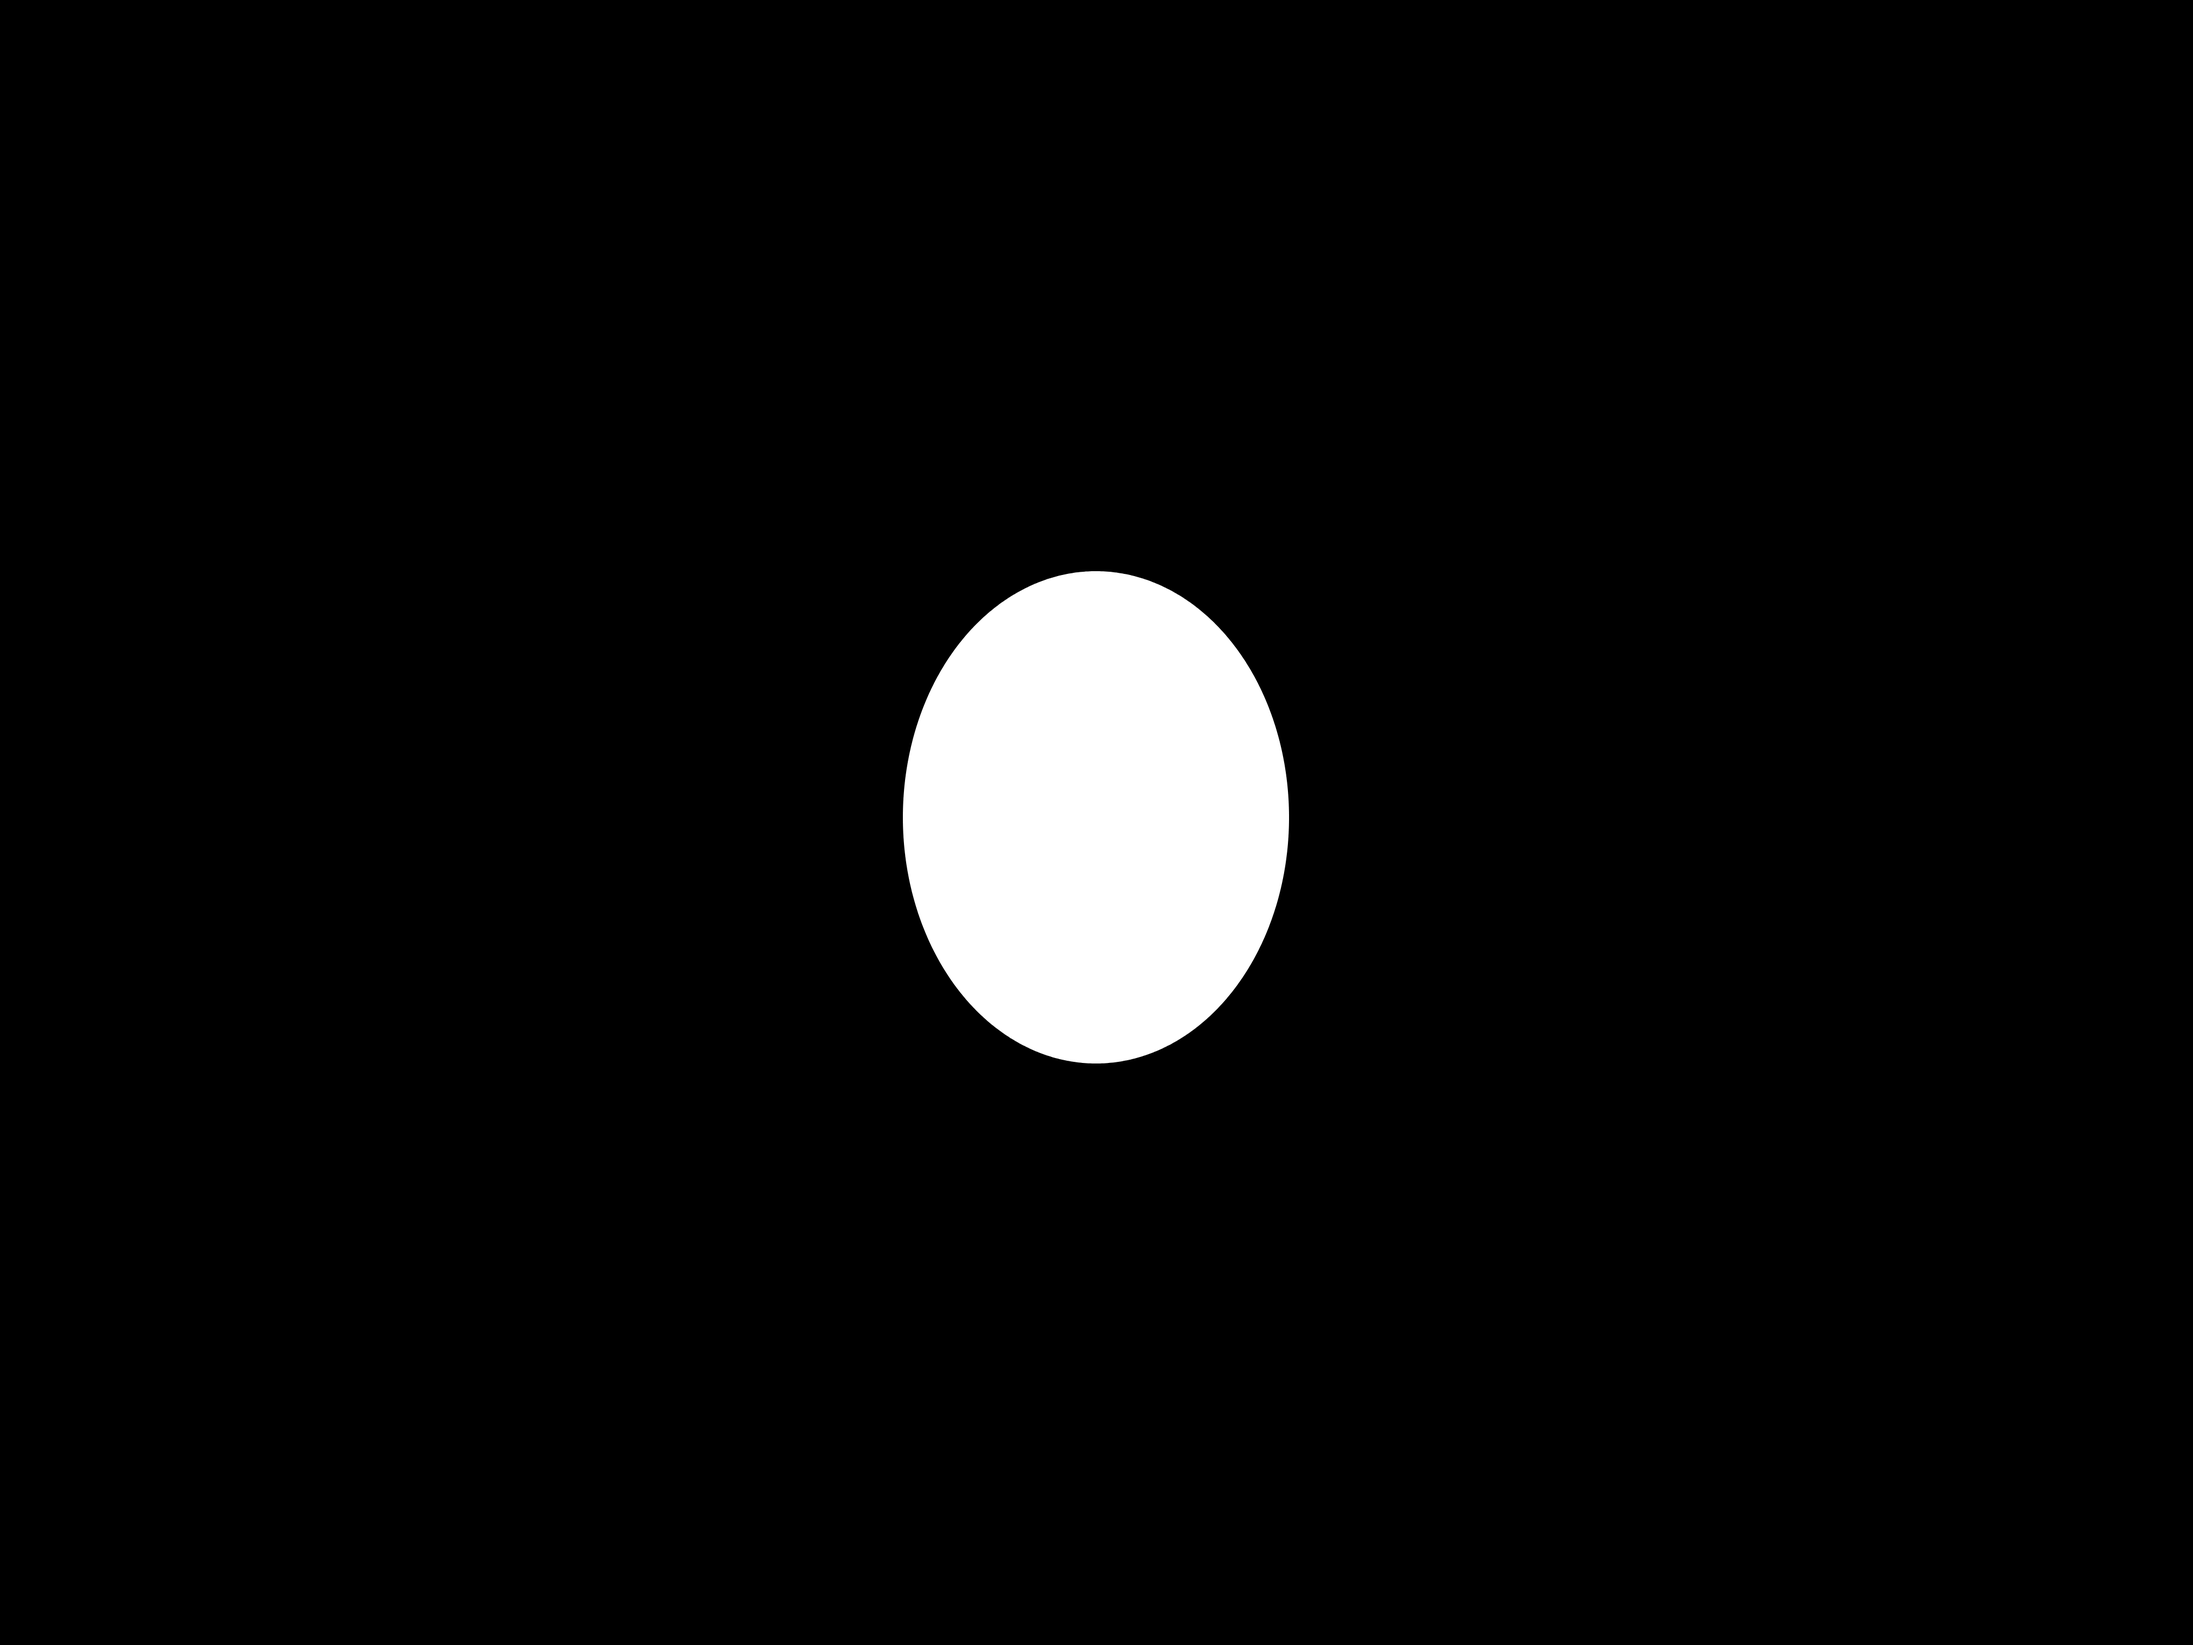
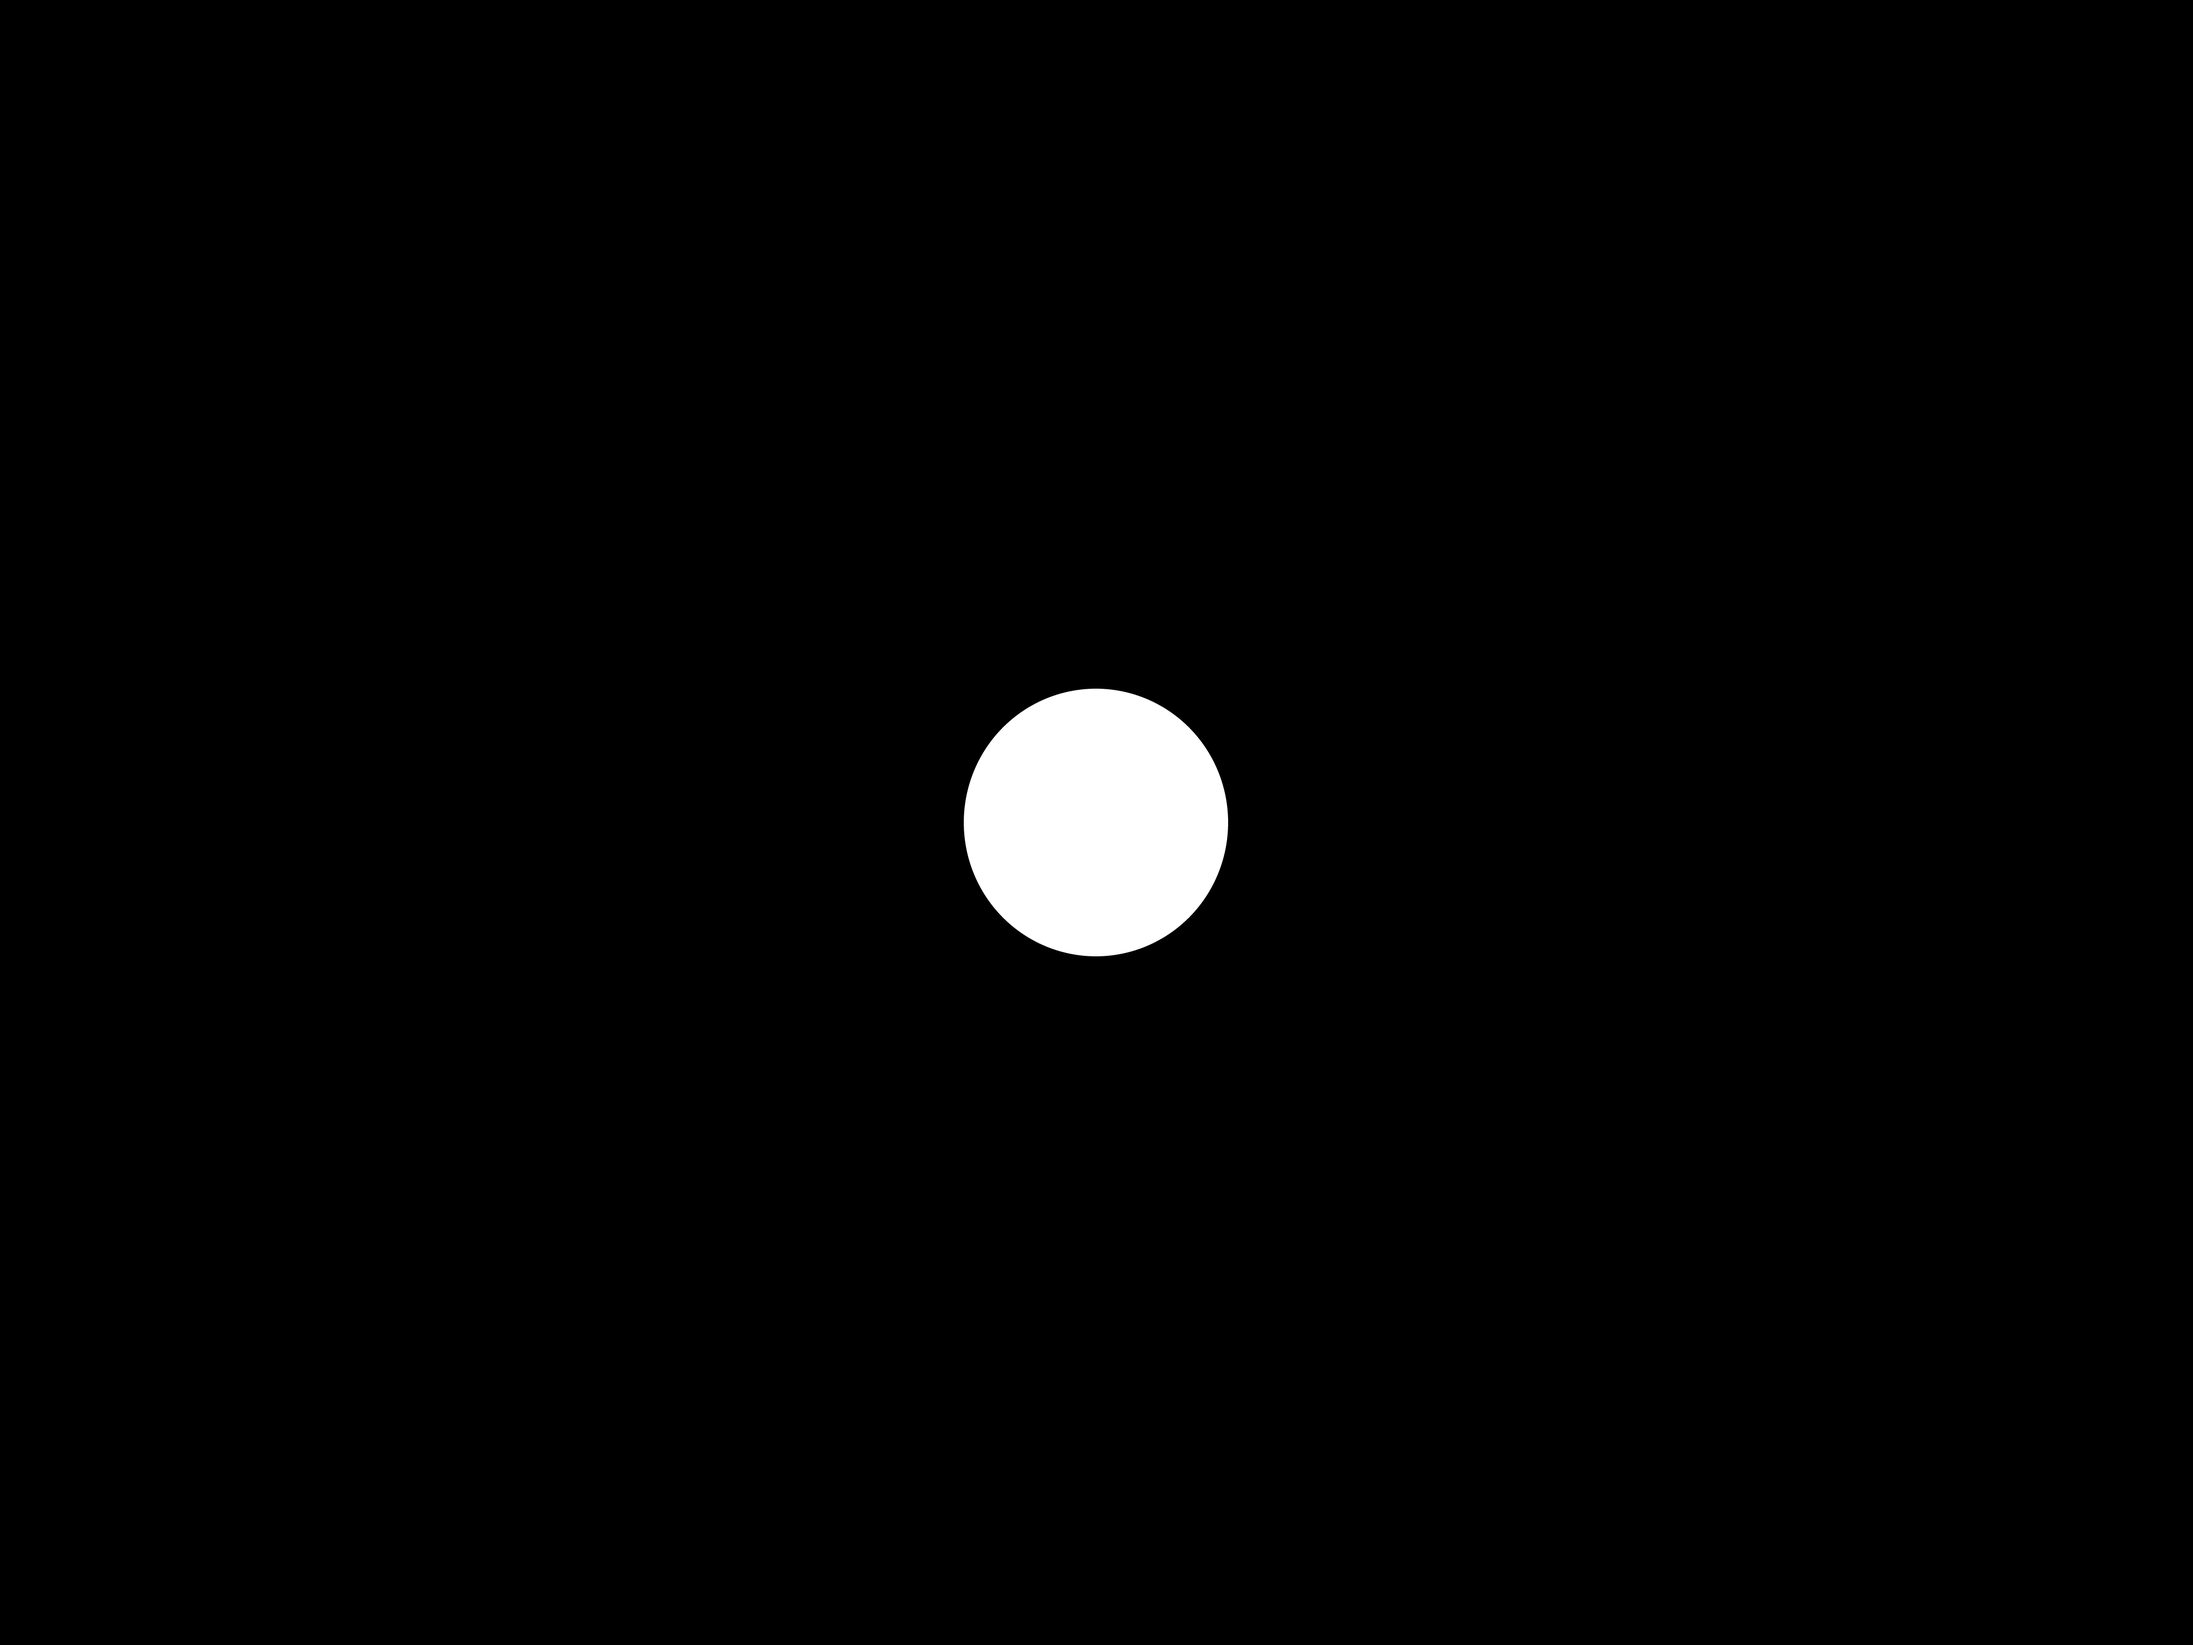
Add: black color with light in fight system

Changed region(s): [[0.4062, 0.3419, 0.5938, 0.6528]]

diff --git a/src/combat/player_combat_movements.c b/src/combat/player_combat_movements.c
@@ -19,7 +19,7 @@
 static void go_right(game_t *g)
 {
     g->player.body.rect.top = 96;
-    for (int i = 168; i < g->scene[2].nb_elem; i++)
+    for (int i = 168; i < g->scene[2].nb_elem - 1; i++)
         if (combat_collision(g->player.body, g->scene[2].elem[i],
         (sfVector2i){10, 0}))
             return;
@@ -30,7 +30,7 @@ static void go_right(game_t *g)
 static void go_left(game_t *g)
 {
     g->player.body.rect.top = 48;
-    for (int i = 168; i < g->scene[2].nb_elem; i++)
+    for (int i = 168; i < g->scene[2].nb_elem - 1; i++)
         if (combat_collision(g->player.body, g->scene[2].elem[i],
         (sfVector2i){-10, 0}))
             return;
@@ -41,7 +41,7 @@ static void go_left(game_t *g)
 static void go_up(game_t *g)
 {
     g->player.body.rect.top = 144;
-    for (int i = 168; i < g->scene[2].nb_elem; i++)
+    for (int i = 168; i < g->scene[2].nb_elem - 1; i++)
         if (combat_collision(g->player.body, g->scene[2].elem[i],
         (sfVector2i){0, -10}))
             return;
@@ -52,7 +52,7 @@ static void go_up(game_t *g)
 static void go_down(game_t *g)
 {
     g->player.body.rect.top = 0;
-    for (int i = 168; i < g->scene[2].nb_elem; i++)
+    for (int i = 168; i < g->scene[2].nb_elem - 1; i++)
         if (combat_collision(g->player.body, g->scene[2].elem[i],
         (sfVector2i){0, 10}))
             return;

diff --git a/src/combat/main_combat.c b/src/combat/main_combat.c
@@ -12,8 +12,8 @@ scene_t init_combat(game_t *g)
 {
     button_t *buttons = init_combat_button(g->window);
     int nb_button = 0;
-    body_t *elem = create_maze(elem);
-    int nb_elem = 376;
+    body_t *elem = create_maze(elem, g);
+    int nb_elem = 377;
     interest_t *interest = init_combat_interest(g->window);
     int nb_interest = 0;
     sfMusic *scene_music = sfMusic_createFromFile("music/back.ogg");
@@ -27,3 +27,24 @@ scene_t init_combat(game_t *g)
     sfMusic_setLoop(combat.scene_music, sfTrue);
     return (combat);
 }
+
+/*scene_t init_combat(game_t *g)
+{
+    button_t *buttons = init_combat_button(g->window);
+    int nb_button = 0;
+    body_t *elem = create_maze(elem);
+    int nb_elem = 377;
+    interest_t *interest = init_combat_interest(g->window);
+    int nb_interest = 0;
+    scene_t combat = {buttons, nb_button, elem, nb_elem, interest,
+    nb_interest};
+
+    maze_generation(23, 15);
+    //elem[376] = create_body("other/font_invisible.png", (sfIntRect){0, 0, 4032, 3024},
+    //(sfVector2f){-1700, -1300});
+    combat.draw = &draw_combat;
+    combat.event = &event_combat;
+    combat.anim = &anim_combat;
+    return (combat);
+}
+*/

diff --git a/src/combat/create_maze.c b/src/combat/create_maze.c
@@ -43,7 +43,14 @@ static body_t *create_maze_wall(body_t *elem, char *buffer, int k)
     return (elem);
 }
 
-body_t *create_maze(body_t *elem)
+int create_view(body_t *elem, int k, game_t *g)
+{
+    elem[376] = create_body("other/font_invisible.png", (sfIntRect){0, 0, 4032, 3024},
+    (sfVector2f){-1700 - 0, -1300});
+    return (k);
+}
+
+body_t *create_maze(body_t *elem, game_t *g)
 {
     int k = 0;
     char *buffer = read_file("./maze.txt");
@@ -59,5 +66,6 @@ body_t *create_maze(body_t *elem)
         x = buffer[i] == '\n' ? 200 : x;
         y += buffer[i] == '\n' ? 60 : 0;
     }
+    k = create_view(elem, k, g);
     return (create_maze_wall(elem, buffer, k));
 }

diff --git a/src/combat/fonctions_combat.c b/src/combat/fonctions_combat.c
@@ -8,7 +8,14 @@
 #include "includes.h"
 #include "combat.h"
 
-void draw_combat(game_t *g)
+void draw_black(game_t *g, body_t *elem)
+{
+    Set_Pos(g->scene[2].elem[376].sprite, -1980 + g->player.body.pos.x,
+    -1480 + g->player.body.pos.y);
+    printf("Pos %f\n", g->player.body.pos.x);
+}
+
+void draw_combat(game_t *g, body_t *elem)
 {
     for (int i = 0; i < g->scene[2].nb_elem; i++)
         Draw_Sprite(g->scene[2].elem[i].sprite);
@@ -17,6 +24,7 @@ void draw_combat(game_t *g)
     for (int i = 0; i < g->scene[2].nb_button; i++)
         Draw_Sprite(g->scene[2].button[i].body.sprite);
     draw_player(g);
+    draw_black(g, elem);
 }
 
 void anim_combat(game_t *g)

diff --git a/headers/combat.h b/headers/combat.h
@@ -8,13 +8,14 @@
 #ifndef COMBAT_H_
     #define COMBAT_H_
 
-void draw_combat(game_t *g);
+void draw_combat(game_t *g, body_t *elem);
+void draw_black(game_t *g, body_t *elem);
 void anim_combat(game_t *g);
 void event_combat(game_t *g);
 void check_action(game_t *g);
 scene_t init_combat(game_t *g);
 void combat_movement(game_t *g);
-body_t *create_maze(body_t *elem);
+body_t *create_maze(body_t *elem, game_t *g);
 int maze_generation(int width, int height);
 button_t *init_combat_button(sfRenderWindow *window);
 interest_t *init_combat_interest(sfRenderWindow *window);
